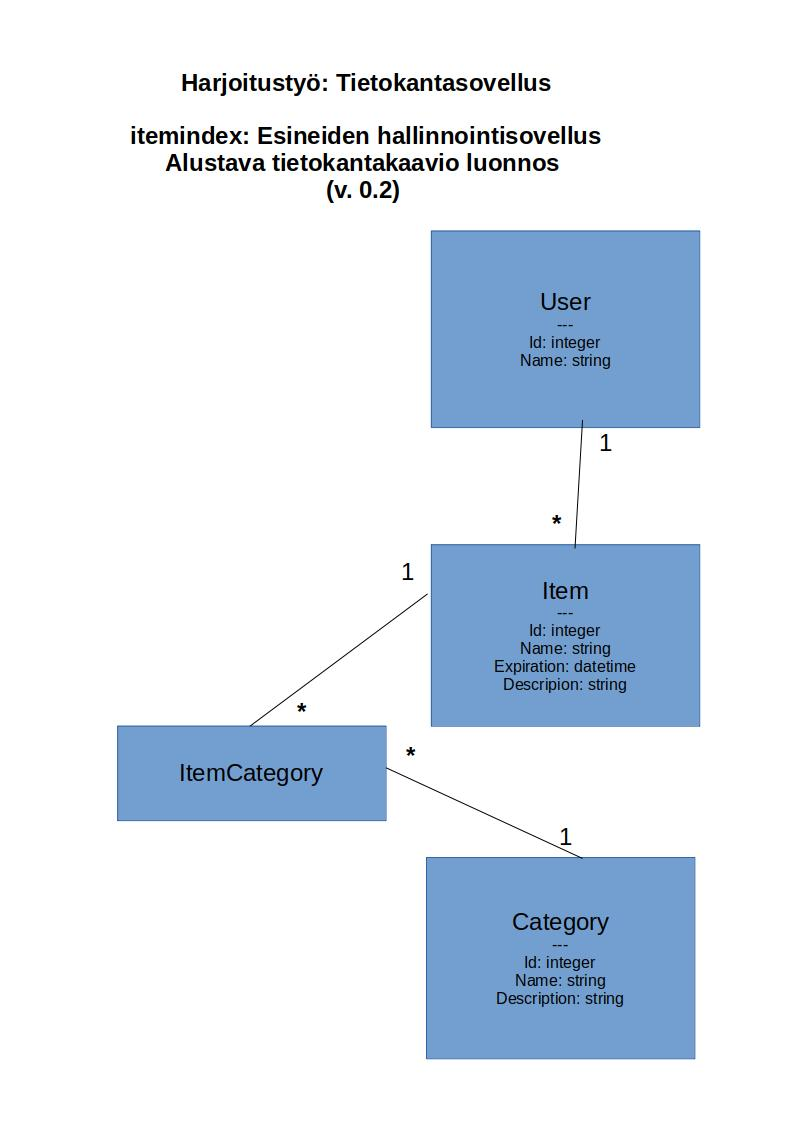
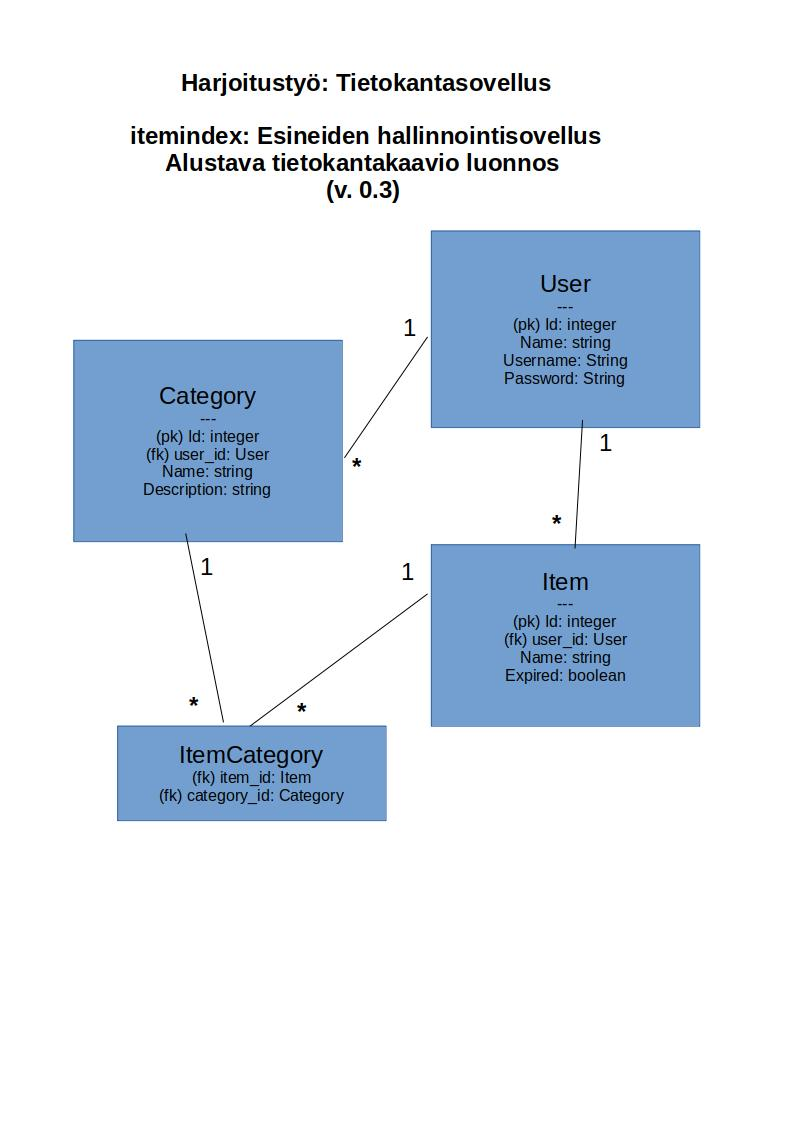
Päivitetty dokumentaatiota ja tietokantakaaviota

diff --git a/application/__init__.py b/application/__init__.py
@@ -11,7 +11,7 @@ import os
 if os.environ.get("HEROKU"):
     app.config["SQLALCHEMY_DATABASE_URI"] = os.environ.get("DATABASE_URL")
 else:
-    app.config["SQLALCHEMY_DATABASE_URI"] = "sqlite:///tasks.db"
+    app.config["SQLALCHEMY_DATABASE_URI"] = "sqlite:///items.db"
     app.config["SQLALCHEMY_ECHO"] = True
 
 db = SQLAlchemy(app)

diff --git a/start.py b/start.py
@@ -1,7 +1,7 @@
 from application import app
 
-app.logger.addHandler(logging.StreamHandler(sys.stdout))
-app.logger.setLevel(logging.ERROR)
+# app.logger.addHandler(logging.StreamHandler(sys.stdout))
+# app.logger.setLevel(logging.ERROR)
 
 if __name__ == '__main__':
     app.run(debug=True)

diff --git a/README.md b/README.md
@@ -4,19 +4,46 @@
 
 ## Kuvaus sovelluksen toiminnallisuudesta:
 
-Tehtävänä on luoda tietokantasovellus, jonka avulla käyttäjä voi hallinnoida hallussaan olevia esineitä. Tarkoituksena on, että käyttäjä pystyy sovelluksen avulla määrittämään jokaiselle esineelle jonkin oletetun käyttöajan, jonka jälkeen esine vanhenee, eli johon mennessä se on tullut käyttöikänsä päähän ja pitää uusia. Käyttötarkoitus on sovellettavissa monenlaisiin tarkoituksiin jääkaapin sisällön hallinnoimisesta koko omaisuuden listaamiseen asti. Idean taustalla on joskus aikoinaan minimalistien keskuudessa suosittu 100-esinettä haaste, jossa listattiin kaikki esineet, jotka omistaa ja kilpailtiin siitä, kuka pääsee lähimmäs sataa (huvinsa kullakin!).
+Tehtävänä on luoda tietokantasovellus, jonka avulla käyttäjä voi hallinnoida hallussaan olevia esineitä.
 
-Eli sovelluksessa on siis tarkoitus pystyä lisäämään/poistamaan ja listaamaan esineitä. Esineille määritellään kategoria (esim. core, essential, work, hobby, luxyry...) ja käyttöikä. Esineiden nimiä ja niihin liittyviä kategorioita yms. pitää voida muokata, kuin myös kategorioiden nimiä ja niihin liittyviä ominaisuuksia.
+Tarkoituksena on, että valmis sovellus sisältää seuraavat ominaisuudet:
+- Käyttäjätunnusten luominen
+- Esineiden lisääminen, muokkaaminen, poistaminen
+- Kategorioiden lisääminen, muokkaaminen, poistaminen
+- Kategorian liittäminen esineeseen
+- Esineen merkkaaminen poistettavaksi, uusittavaksi tai hankittavaksi
+- Esineiden listaaminen esim. seuraavilla tavoilla:
+  - Kaikki omistamani esineet
+  - Tiettyyn itse määrittämääni kategoriaan tai kategorioihin kuuluvat esineet
+  - Kaikki vanhentuneet esineet
+  - Kaikki poistettavaksi merkatut esineet
+  - Kaikki vanhentuneet esineet
+  - Kaikki hankittavat esineet
 
-Tietokannasta pitää olla mahdollista hakea erilaisia listauksia esineistä, esim. kaikki esineet, tietyn kategorian esineet vanhentueet esineet yms.
+Lisää kuvauksia toiminnallisuuksista löytyy myös [käyttötapauskuvauksista](./documentation/use_cases.md)
+
 
 ## Käyttöohje
+
+### Tunnusten luominen
+
+Käyttäjällä pitää olla tunnukset järjestelmään, ennen kuin sovellusta voi käyttää.
+
+Käyttäjätunnusten luomiseen pääsee aloitussivulta "Luo uusi käyttäjätunnus" linkin kautta.
+
+Käyttäjätunnusta varten tulee määrittää nimi, käyttäjätunnus ja salasana. **HUOM: Sovelluksen nykyisessä demoversiossa salasanat tallennetaan tietokantaan selkokielisinä, tämä on tiedossa ja tullaan myöhemmin muuttamaan turvallisemmaksi toteutukseksi.**
+
+### Kirjautuminen
+
+Sovelluksen käyttö edellyttää kirjautumista, joten käytännössä jos yrität käyttää mitä tahansa muuta kuin tunnuksen luomistoimintoa kirjautumatta, päädyt kirjautumissivulle.
+
+Järjestelmää kirjaudutaan aikaisemmin luodulla Käyttäjätunnuksella ja salasanalla.
 
 ### Esineiden lisääminen
 
 Esineitä voi lisätä klikkaamalla "Add an item"-painiketta
 
-Esineille määritellään nimi ja lisätään se tietokantaan "Add a new item" painiketta. Tämän jälkeen sovellus listaa kaikki esineet.
+Esineille määritellään nimi ja lisätään se tietokantaan "Lisää uusi esine" painiketta. Tämän jälkeen sovellus listaa käyttäjän kaikki esineet. **Huom: Käyttäjä näkee vain omat esineensä.**
 
 Jos et haluakkaan lisätä esinettä, klikkaa "List items" linkkiä
 
@@ -24,7 +51,7 @@ Jos et haluakkaan lisätä esinettä, klikkaa "List items" linkkiä
 
 Esineen voimassa-olon näkee listaus näkymästä, True tarkoittaa sitä, että esineen käyttöikä ei ole vielä päättynyt, ja False tarkoittaa sitä, että pitäsi hankkia uusi vastaava esine.
 
-Voit merkata esineen vanhentuneeksi klikkaamalla "Mark item as eol"-painiketta.
+Voit merkata esineen vanhentuneeksi klikkaamalla "Mark item as expired"-painiketta.
 
 ## Keskeisimmät käyttötapaukset
 
